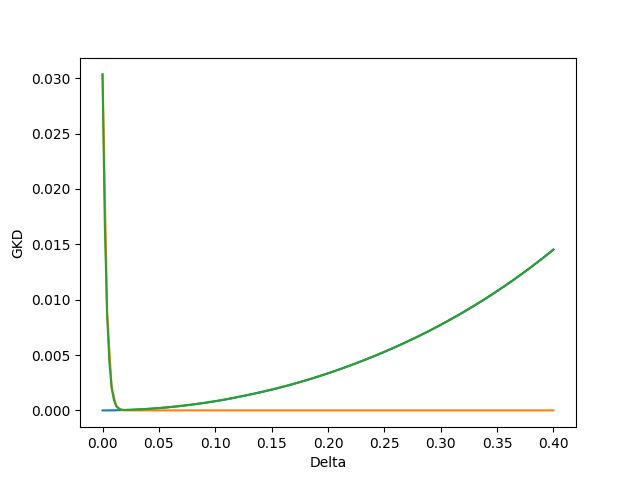
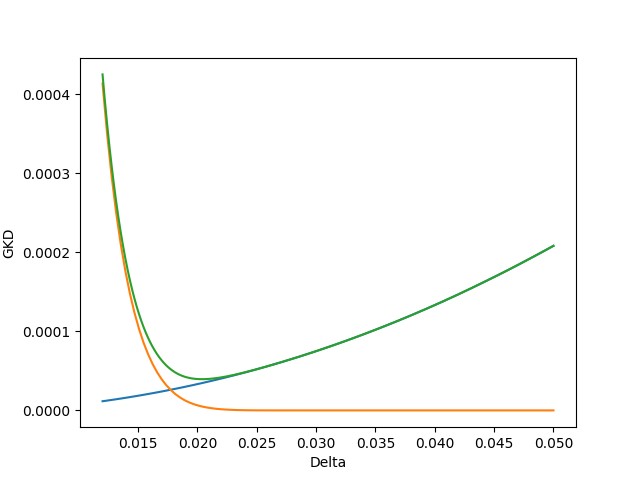
Plot GKD

diff --git a/Python/kwantisatie.py b/Python/kwantisatie.py
@@ -194,17 +194,17 @@ class Kwantisatie():
         
         # Blauwe plot
         sigmagr = np.vectorize(self.sigma_gr)
-        delta = np.linspace(0, 0.4, 100)
+        delta = np.linspace(0.012, 0.05, 100)
         y = sigmagr(delta, M, f_u)
 
         # Oranje plot
         sigmaol = np.vectorize(self.sigma_ol)
-        delta_2 = np.linspace(0, 0.4, 100)
+        delta_2 = np.linspace(0.012, 0.05, 100)
         y_2 = sigmaol(delta, M, f_u)
 
         # Groene plot
         sigma_vect = np.vectorize(self.sigma)
-        delta_3 = np.linspace(0, 0.4, 200)
+        delta_3 = np.linspace(0.012, 0.05, 200)
         y_3 = sigma_vect(delta_3, M, f_u)
 
 

diff --git a/Python/kanaalcodering.py b/Python/kanaalcodering.py
@@ -438,10 +438,5 @@ class Kanaalcodering():
 
 
 #c = obj.plot_s_1()
-<<<<<<< HEAD
-print(obj.simulation_3(0.05,2000, 5))
-=======
-# print(obj.simulation_2(0.05,20, 5))
->>>>>>> 720ceb0cc2082137c2574f973e0c4383b04ac081
-
+#print(obj.simulation_3(0.05,2000, 5))
 #print(obj.encodeer_inwendig([0,0,0,1,1], [1,1,1,1,0,1]))

diff --git a/Python/run_simulation.py b/Python/run_simulation.py
@@ -156,6 +156,6 @@ warnings.simplefilter('ignore') # ignore warnings of integral
 
 
 #run_kwantisatie()
-run_broncodering()
+#run_broncodering()
 #run_kanaalcodering()
 #run_moddet()
